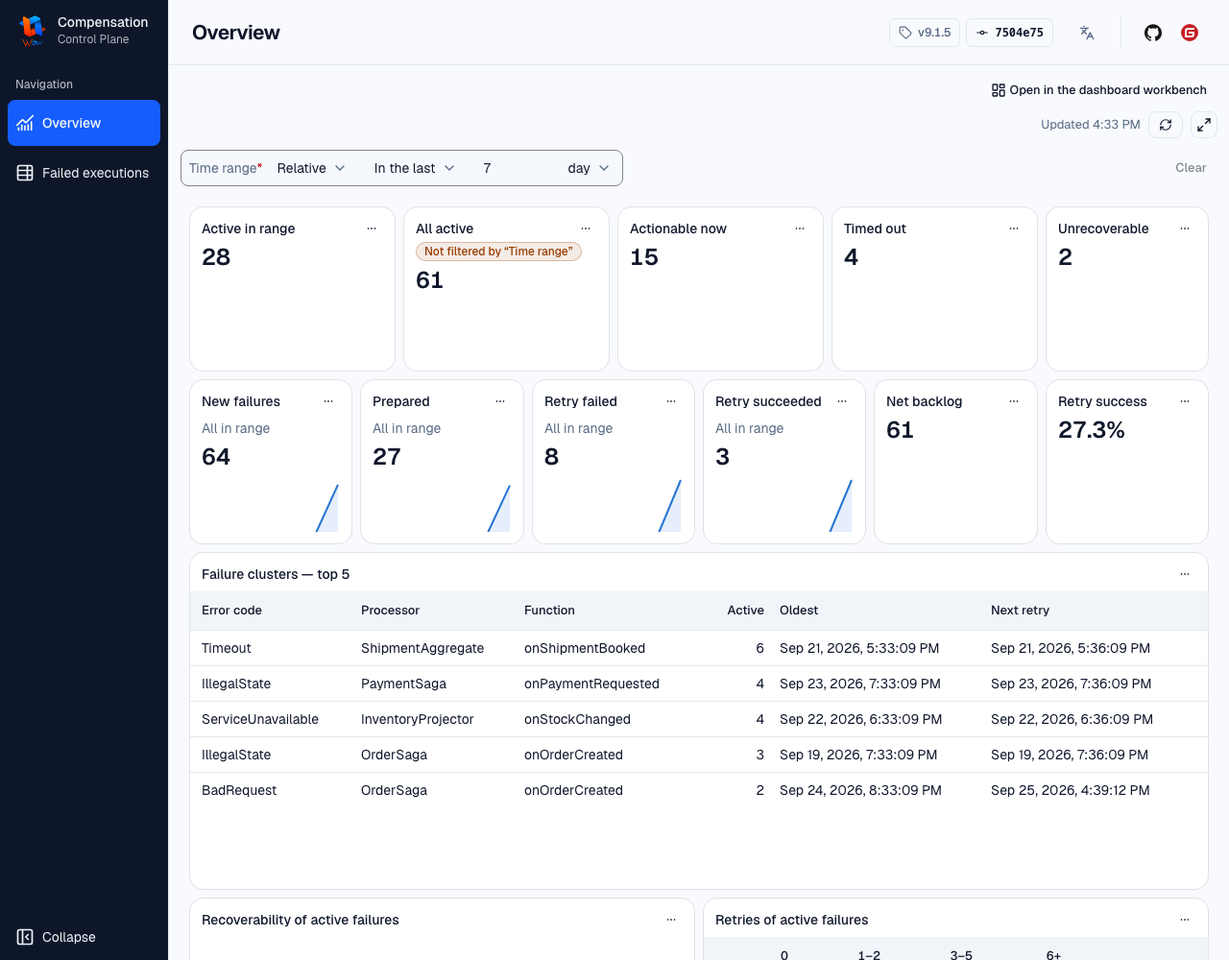
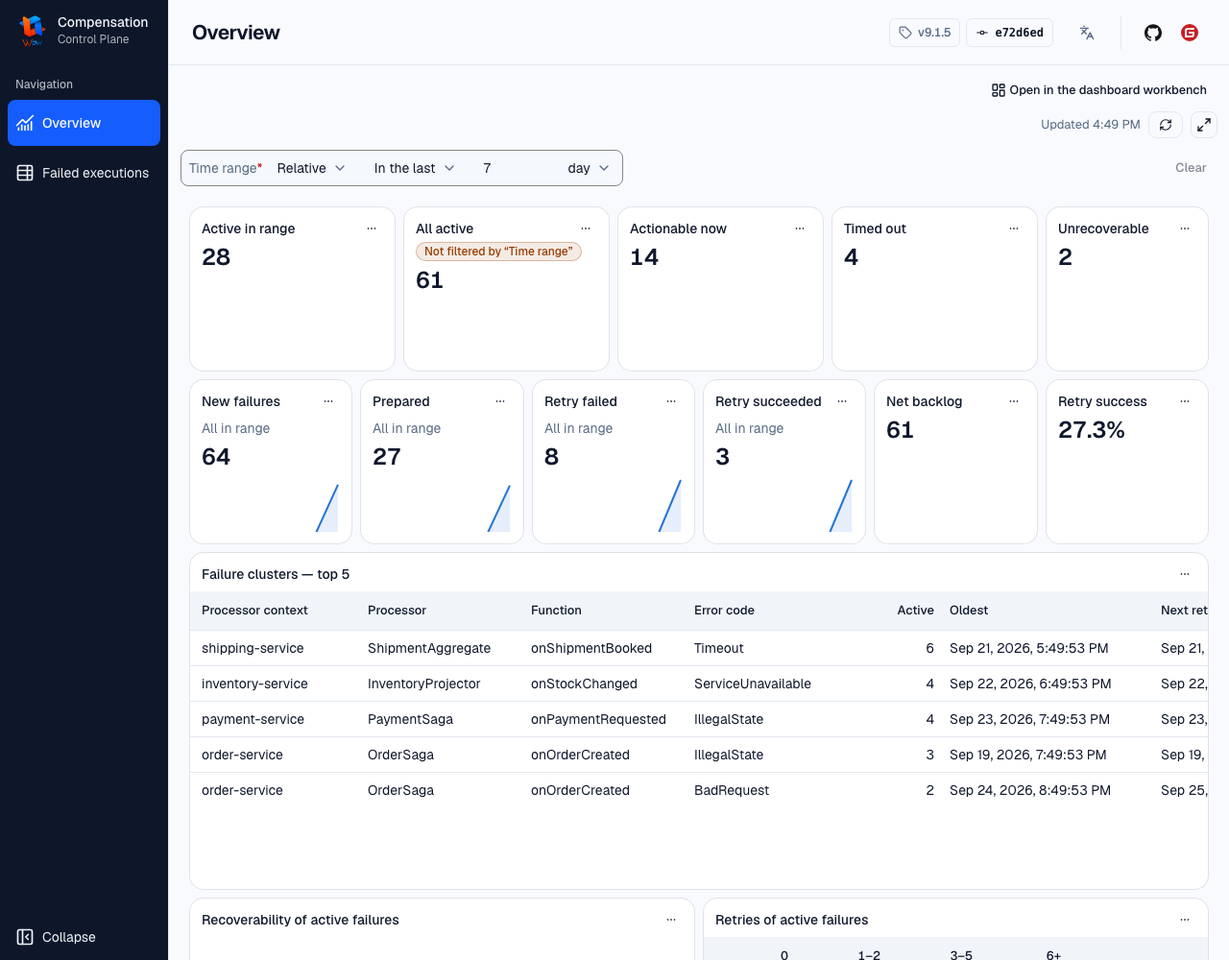
fix(compensation-dashboard): the cluster panel keeps the context, so no two clusters merge
Grouping the panel by error code × processor × function summed distinct
clusters into one row wherever two services have a processor and function
of the same name. The panel now groups by context × processor × function ×
error code and leaves out the function kind alone, which the first three
fix. A new e2e with two contexts sharing a processor and function proves
they stay separate rows; it fails with the three-part grouping. Docs, the
proposal's note and the docs screenshot follow.

diff --git a/compensation/dashboard/e2e/overview.spec.ts b/compensation/dashboard/e2e/overview.spec.ts
@@ -236,13 +236,14 @@ for (const described of [false, true]) {
     const clusters = panel(page, "Failure clusters — top 5");
     const rows = clusters.getByRole("row");
     await expect(rows).toHaveCount(old.pressure.length + 1);
-    await expect(rows.first().getByRole("columnheader")).toHaveCount(6);
+    await expect(rows.first().getByRole("columnheader")).toHaveCount(7);
     for (const [index, cluster] of old.pressure.entries()) {
       const cells = rows.nth(index + 1).getByRole("cell");
-      await expect(cells.nth(0)).toHaveText(cluster.errorCode);
+      await expect(cells.nth(0)).toHaveText(cluster.contextName);
       await expect(cells.nth(1)).toHaveText(cluster.processorName);
       await expect(cells.nth(2)).toHaveText(cluster.functionName);
-      await expect(cells.nth(3)).toHaveText(count(cluster.currentCount));
+      await expect(cells.nth(3)).toHaveText(cluster.errorCode);
+      await expect(cells.nth(4)).toHaveText(count(cluster.currentCount));
     }
 
     // The due-for-retry panel holds what 「可立即处理」 counts.
@@ -632,5 +633,45 @@ test("the cluster panel opens every column of the clusters in the workbench", as
     await expect(cells.nth(5)).toHaveText(count(cluster.currentCount));
     await expect(cells.nth(6)).toHaveText(count(cluster.failedCount));
     await expect(cells.nth(7)).toHaveText(count(cluster.preparedCount));
+  }
+});
+
+// The panel leaves out the function's kind alone: two services with a
+// processor and function of the same name are two clusters, and stay two
+// rows, as the old overview kept them.
+test("two contexts sharing a processor and function stay separate clusters", async ({
+  page,
+}, testInfo) => {
+  test.skip(testInfo.project.name !== "desktop-chromium");
+  const documents = overviewExecutions().map((document, index) => {
+    const fn = document.state.function as Record<string, unknown>;
+    if (fn.processorName !== "OrderSaga" || index % 2 === 0) return document;
+    return {
+      ...document,
+      state: {
+        ...document.state,
+        function: { ...fn, contextName: "billing-service" },
+      },
+    };
+  });
+  const streams = overviewStreams(documents);
+  const old = oldOverview(documents, streams, lastDays(7));
+  const shared = old.pressure.filter(
+    ({ processorName }) => processorName === "OrderSaga",
+  );
+  // Both contexts are among the old overview's top five, by one key.
+  expect(new Set(shared.map(({ contextName }) => contextName)).size).toBe(2);
+  await stub(page, documents, streams);
+  await page.goto("/");
+
+  const rows = panel(page, "Failure clusters — top 5").getByRole("row");
+  await expect(rows).toHaveCount(old.pressure.length + 1);
+  for (const cluster of shared) {
+    const row = rows.filter({ hasText: cluster.contextName }).filter({
+      hasText: cluster.processorName,
+    });
+    const cells = row.filter({ hasText: cluster.errorCode }).getByRole("cell");
+    await expect(cells.nth(0)).toHaveText(cluster.contextName);
+    await expect(cells.nth(4)).toHaveText(count(cluster.currentCount));
   }
 });

diff --git a/compensation/dashboard/src/views/overview.ts b/compensation/dashboard/src/views/overview.ts
@@ -250,14 +250,16 @@ function retriesTable(t: Text): AnalysisViewConfig {
 
 /**
  * The five clusters with the most active failures, in the few columns a
- * panel has room for: the error and the function that failed, how many are
- * active, and the earliest execution and next retry. A cluster here is the
- * error of one processor's function — the processor's context and the
- * function's kind go with the function in practice, and are columns of the
- * whole view (`clusters` on the failed executions), which
- * 「在工作台中打开」 opens in the panel's stead with the split by status. A
- * press on a cluster opens its active failures in the workbench, under the
- * board's window.
+ * panel has room for: where it failed — the context, the processor and its
+ * function — and with which error, how many are active, and the earliest
+ * execution and next retry. The old five-part identity less the function's
+ * kind alone, which the context, processor and function already fix: every
+ * other part can differ between two clusters that share the rest (two
+ * services with a processor of the same name), so none of them is dropped.
+ * The whole view (`clusters` on the failed executions), with the kind and
+ * the split by status, is what 「在工作台中打开」 opens in the panel's stead.
+ * A press on a cluster opens its active failures in the workbench, under
+ * the board's window.
  */
 function clustersTable(t: Text): AnalysisViewConfig {
   const pick = (alias: string) => {
@@ -267,7 +269,9 @@ function clustersTable(t: Text): AnalysisViewConfig {
   };
   return analysis({
     conditions: [ACTIVE_CONDITION],
-    groups: ["errorCode", "processorName", "functionName"].map(pick),
+    groups: ["contextName", "processorName", "functionName", "errorCode"].map(
+      pick,
+    ),
     metrics: [
       { type: "COUNT", alias: "count", label: t.count },
       ...clusterTimes(t.oldest, t.nextRetry),

diff --git a/compensation/dashboard/src/views/overview.test.ts b/compensation/dashboard/src/views/overview.test.ts
@@ -129,7 +129,15 @@ describe("overviewDefinition", () => {
       const columns = (config: typeof short) =>
         config.groups.length + config.metrics.length;
 
-      expect(columns(short)).toBe(6);
+      expect(columns(short)).toBe(7);
+      // Only the function's kind is left out: the context, processor and
+      // function fix it; none of the others is fixed by the rest.
+      expect(short.groups.map(({ field }) => field)).toEqual([
+        "state.function.contextName",
+        "state.function.processorName",
+        "state.function.name",
+        "state.error.errorCode",
+      ]);
       expect(columns(whole)).toBe(10);
       expect(clusters?.opens).toBe("system:execution-failed:clusters");
       // The panel's groups are some of the whole view's, so its conditions

diff --git a/compensation/dashboard/docs/design/view-engine-rebuild.md b/compensation/dashboard/docs/design/view-engine-rebuild.md
@@ -275,23 +275,23 @@ flowchart LR
 
 **发现与处置**（严重度：P1 挡使用，P2 明显的体验问题，P3 小瑕疵）：
 
-| #   | 发现                                                                                                                              | 严重度 | 处置                                                                                                                                                                                                                                                                                                  |
-| --- | --------------------------------------------------------------------------------------------------------------------------------- | ------ | ----------------------------------------------------------------------------------------------------------------------------------------------------------------------------------------------------------------------------------------------------------------------------------------------------- |
-| W1  | 接入能力描述后，概览四张结局卡在真服务上「保存的设置已经用不了了」（引擎把 `ELEMENT_MATCH` 收窄掉）                               | P1     | 已修：#3540                                                                                                                                                                                                                                                                                           |
-| W2  | 「铺满屏幕」的工作台与概览左侧 175px 压在宿主侧栏下                                                                               | P1     | 已修：#3542 + `--fve-expanded-z-index: 20`；e2e「fill the screen over the navigation」                                                                                                                                                                                                                |
-| W3  | axe `color-contrast`：分页、说明、字段标签 4.46:1                                                                                 | P2     | 已修：宿主 `--muted-foreground` 压暗一档                                                                                                                                                                                                                                                              |
-| W4  | 事件流工作台的行说不出是哪一条执行的                                                                                              | P2     | 已修：「全部事件流」视图（缺省）带执行 ID                                                                                                                                                                                                                                                             |
-| W5  | 堆栈「自动换行」时长栈帧仍横向滚动                                                                                                | P3     | 已修                                                                                                                                                                                                                                                                                                  |
-| W6  | 函数类型按钮写英文代码                                                                                                            | P3     | 已修                                                                                                                                                                                                                                                                                                  |
-| W7  | 语言菜单选完不收起                                                                                                                | P3     | 已修（单测会在未修时失败）                                                                                                                                                                                                                                                                            |
-| W8  | 事件流详情的分组叫「其他」                                                                                                        | P3     | 已修：定义给出分组                                                                                                                                                                                                                                                                                    |
-| W9  | 可恢复性饼图的颜色按类别次序给，「不可恢复」是绿色                                                                                | P3     | 引擎缺口：图的类别色不读选项的 `tone`；记入 todo                                                                                                                                                                                                                                                      |
-| W10 | 英文单复数：条件摘要「last 30 day」、总数「1 records in all」                                                                     | P3     | 引擎缺口，记入 todo                                                                                                                                                                                                                                                                                   |
-| W11 | 手机上板的筛选抽屉里，时间范围控件比抽屉宽（重置按钮被切）；半宽卡片上「Not filtered by “Time range”」徽标两头被切                | P3     | 引擎缺口，记入 todo                                                                                                                                                                                                                                                                                   |
-| W12 | 空库时可恢复性饼图画一圈灰环和孤零零的图例「记录数」，而不是空态                                                                  | P3     | 引擎缺口，记入 todo                                                                                                                                                                                                                                                                                   |
-| W13 | 集群表 9 列比面板宽，「最早下次重试」要横向滚动才看得到（macOS 的滚动条默认隐藏）                                                 | P3     | 已修（协调者 2026-09-25 定）：面板只读六列——错误码、处理器、函数、活动失败、最早执行、最早下次重试；「在工作台中打开」开新的系统视图「失败集中度」（五维全部与按状态拆开的十列、前 50 组），靠引擎 #3558 的面板 `opens`。面板上的集群因此是「错误码 × 处理器 × 函数」，上下文与函数类型实际随函数而定 |
-| W14 | 控制台没有深色模式：`index.css` 有 `.dark` 一套变量但没有入口，系统深色时整页仍是浅色（引擎跟随宿主，所以前后一致，不会半深半浅） | P3     | 待用户定（协调者 2026-09-25：保持现状、写进方案）；旧控制台同样没有                                                                                                                                                                                                                                   |
-| W15 | 工作台的视图列表读宿主的 `--sidebar`，与控制台深色的导航栏并排成两条深色竖栏                                                      | P3     | 待用户定（协调者 2026-09-25：保持现状、写进方案）；引擎按设计读宿主的 shadcn 侧栏变量，要浅色须宿主另设 `--fve-sidebar*`                                                                                                                                                                              |
+| #   | 发现                                                                                                                              | 严重度 | 处置                                                                                                                                                                                                                                                                                                                                                                                                                                                                                                     |
+| --- | --------------------------------------------------------------------------------------------------------------------------------- | ------ | -------------------------------------------------------------------------------------------------------------------------------------------------------------------------------------------------------------------------------------------------------------------------------------------------------------------------------------------------------------------------------------------------------------------------------------------------------------------------------------------------------- |
+| W1  | 接入能力描述后，概览四张结局卡在真服务上「保存的设置已经用不了了」（引擎把 `ELEMENT_MATCH` 收窄掉）                               | P1     | 已修：#3540                                                                                                                                                                                                                                                                                                                                                                                                                                                                                              |
+| W2  | 「铺满屏幕」的工作台与概览左侧 175px 压在宿主侧栏下                                                                               | P1     | 已修：#3542 + `--fve-expanded-z-index: 20`；e2e「fill the screen over the navigation」                                                                                                                                                                                                                                                                                                                                                                                                                   |
+| W3  | axe `color-contrast`：分页、说明、字段标签 4.46:1                                                                                 | P2     | 已修：宿主 `--muted-foreground` 压暗一档                                                                                                                                                                                                                                                                                                                                                                                                                                                                 |
+| W4  | 事件流工作台的行说不出是哪一条执行的                                                                                              | P2     | 已修：「全部事件流」视图（缺省）带执行 ID                                                                                                                                                                                                                                                                                                                                                                                                                                                                |
+| W5  | 堆栈「自动换行」时长栈帧仍横向滚动                                                                                                | P3     | 已修                                                                                                                                                                                                                                                                                                                                                                                                                                                                                                     |
+| W6  | 函数类型按钮写英文代码                                                                                                            | P3     | 已修                                                                                                                                                                                                                                                                                                                                                                                                                                                                                                     |
+| W7  | 语言菜单选完不收起                                                                                                                | P3     | 已修（单测会在未修时失败）                                                                                                                                                                                                                                                                                                                                                                                                                                                                               |
+| W8  | 事件流详情的分组叫「其他」                                                                                                        | P3     | 已修：定义给出分组                                                                                                                                                                                                                                                                                                                                                                                                                                                                                       |
+| W9  | 可恢复性饼图的颜色按类别次序给，「不可恢复」是绿色                                                                                | P3     | 引擎缺口：图的类别色不读选项的 `tone`；记入 todo                                                                                                                                                                                                                                                                                                                                                                                                                                                         |
+| W10 | 英文单复数：条件摘要「last 30 day」、总数「1 records in all」                                                                     | P3     | 引擎缺口，记入 todo                                                                                                                                                                                                                                                                                                                                                                                                                                                                                      |
+| W11 | 手机上板的筛选抽屉里，时间范围控件比抽屉宽（重置按钮被切）；半宽卡片上「Not filtered by “Time range”」徽标两头被切                | P3     | 引擎缺口，记入 todo                                                                                                                                                                                                                                                                                                                                                                                                                                                                                      |
+| W12 | 空库时可恢复性饼图画一圈灰环和孤零零的图例「记录数」，而不是空态                                                                  | P3     | 引擎缺口，记入 todo                                                                                                                                                                                                                                                                                                                                                                                                                                                                                      |
+| W13 | 集群表 9 列比面板宽，「最早下次重试」要横向滚动才看得到（macOS 的滚动条默认隐藏）                                                 | P3     | 已修（协调者 2026-09-25 定）：面板只读七列——上下文、处理器、函数、错误码、活动失败、最早执行、最早下次重试；「在工作台中打开」开新的系统视图「失败集中度」（五维全部与按状态拆开的十列、前 50 组），靠引擎 #3558 的面板 `opens`。旧五元组只去掉函数类型：它由上下文 × 处理器 × 函数决定；其余四维都可能在两个不同集群之间不同（两个服务里同名的处理器与函数），去掉任何一个都会把不同的集群加成一行。e2e「two contexts sharing a processor and function stay separate clusters」守着，按三维分组时它失败 |
+| W14 | 控制台没有深色模式：`index.css` 有 `.dark` 一套变量但没有入口，系统深色时整页仍是浅色（引擎跟随宿主，所以前后一致，不会半深半浅） | P3     | 待用户定（协调者 2026-09-25：保持现状、写进方案）；旧控制台同样没有                                                                                                                                                                                                                                                                                                                                                                                                                                      |
+| W15 | 工作台的视图列表读宿主的 `--sidebar`，与控制台深色的导航栏并排成两条深色竖栏                                                      | P3     | 待用户定（协调者 2026-09-25：保持现状、写进方案）；引擎按设计读宿主的 shadcn 侧栏变量，要浅色须宿主另设 `--fve-sidebar*`                                                                                                                                                                                                                                                                                                                                                                                 |
 
 **留下的**（不在这次改）：W9～W12 在引擎 todo；W14、W15 待用户定。
 

diff --git a/documentation/docs/en/reference/example/compensation.md b/documentation/docs/en/reference/example/compensation.md
@@ -99,7 +99,7 @@ The console is built on the Wow view engine (`@ahoo-wang/wow-view-engine`): the 
 | **Actionable now / Timed out / Unrecoverable** | How many can be handled, are stuck, or were given up? | "Actionable now" is the due-for-retry queue; "Timed out" is `PREPARED` with `timeoutAt` before the server's now |
 | **New failures / Prepared / Retry failed / Retry succeeded** | Inflow and outcomes | Event streams holding the event, with a daily trend; the figure is the whole range |
 | **Net backlog / Retry success** | Is it improving? | `New failures − Retry succeeded`; `Retry succeeded / (Retry failed + Retry succeeded)`, derived by the server from counts by event name |
-| **Failure clusters — top 5** | Where does the pressure concentrate? | Error code × processor × function, with the active count, the oldest execution and the earliest next retry; "Open in the workbench" opens the "Failure clusters" view with all five identity columns and the split by status; a row opens the Active view narrowed to that cluster and the range |
+| **Failure clusters — top 5** | Where does the pressure concentrate? | Context × processor × function × error code (the function kind, which the first three fix, is left out), with the active count, the oldest execution and the earliest next retry; "Open in the workbench" opens the "Failure clusters" view with all five identity columns and the split by status; a row opens the Active view narrowed to that cluster and the range |
 | **Recoverability / Retries of active failures** | Are current records recoverable, and how many retries have they used? | Active snapshots in the range; retries in the bands `0`, `1–2`, `3–5`, `6+` |
 | **Needing attention — due for retry** | Which to handle first | Ordered by next retry, oldest first; the row and bulk commands are those of Failed executions |
 

diff --git a/documentation/docs/zh/reference/example/compensation.md b/documentation/docs/zh/reference/example/compensation.md
@@ -99,7 +99,7 @@ pnpm --dir compensation/dashboard dev
 | **可立即处理／已超时／不可恢复** | 现在有多少能处理、卡住、放弃 | 「可立即处理」即「已到重试时间」队列；「已超时」是 `PREPARED` 且 `timeoutAt` 早于服务端的此刻 |
 | **新增失败／准备重试／重试失败／重试成功** | 流入与结局 | 含该事件的事件流数，带每日走势，数字是整个范围之和 |
 | **净积压／重试成功率** | 是否在改善 | `新增失败 − 重试成功`；`重试成功 / (重试失败 + 重试成功)`，由服务端按事件名计数后算出 |
-| **失败集中度 · 前 5 个集群** | 压力集中在哪里 | 错误码 × 处理器 × 函数，带活动失败数、最早执行与最早下次重试；「在工作台中打开」进「失败集中度」视图，五维身份与按状态拆开的全部列；点一行进「活动中」视图并带着这一组与时间范围作条件 |
+| **失败集中度 · 前 5 个集群** | 压力集中在哪里 | 上下文 × 处理器 × 函数 × 错误码（省去由前三者决定的函数类型），带活动失败数、最早执行与最早下次重试；「在工作台中打开」进「失败集中度」视图，五维身份与按状态拆开的全部列；点一行进「活动中」视图并带着这一组与时间范围作条件 |
 | **活动失败的可恢复性／重试次数** | 当前记录是否可恢复、已重试多少次 | 所选范围内的活动快照，重试分 `0`、`1–2`、`3–5`、`6+` 四档 |
 | **最需要处理 · 已到重试时间** | 该先处理哪几条 | 按下次重试时刻升序；行上与勾选后的命令与「失败执行」一致 |
 
